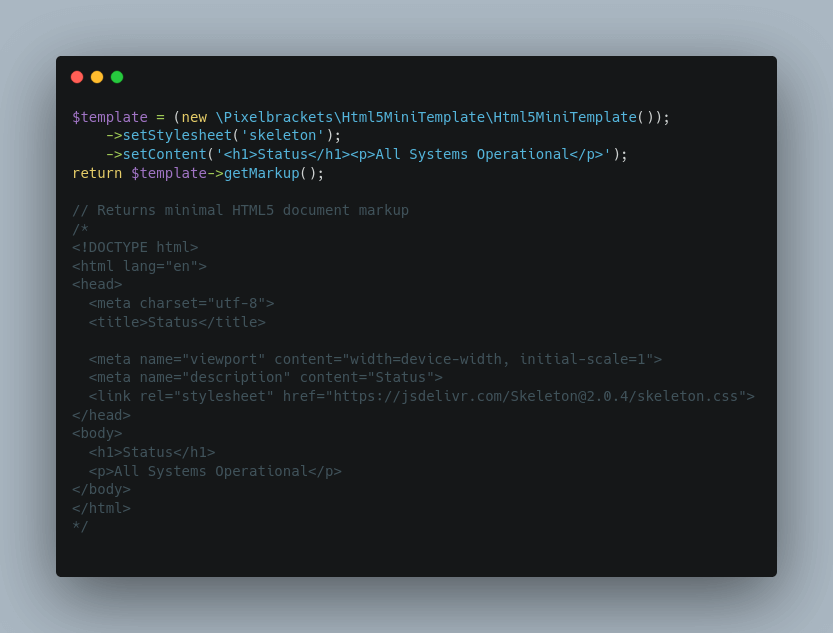
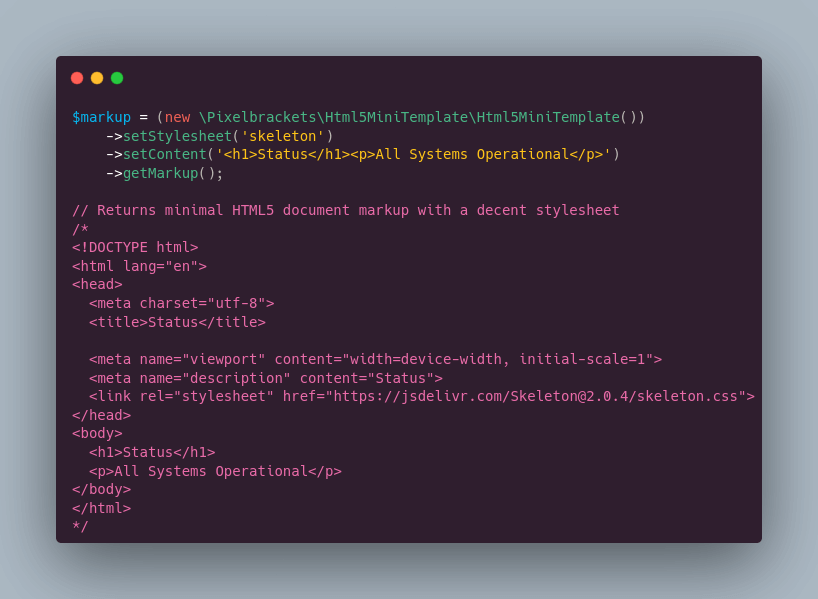
[BUGFIX] 🐛 Docs: Replace faulty example code
The screenshot uses non-working PHP code.
Replace and use a better readable theme as well.

diff --git a/README.md b/README.md
@@ -34,7 +34,7 @@ The package follows the KISS principle.
 This package is used on [html5example.com](https://html5example.com/).
 
 If you are in need of a boilerplate HTML document once only, then you may use a
-commandline tool like HTTPie and run
+commandline tool like cURL or HTTPie and run
 `http https://html5example.com > index.html` to save a template file.
 
 The webapp supports some [options](#options) of this package as well,
@@ -75,7 +75,7 @@ mirrored to GitLab)
    and save the document into a file
    ```php
    $template = new \Pixelbrackets\Html5MiniTemplate\Html5MiniTemplate();
-   $template->setStylesheet('skeleton');
+   $template->setStylesheet('barbone');
    $template->setContent('<h1>Index</h1><p>Nothing to see here</p>');
    file_put_contents('/var/www/example/index.html', $template->getMarkup());
    ```
@@ -102,10 +102,11 @@ mirrored to GitLab)
   [boilerplate](https://html5example.com/) example content is used instead
   - 💭 You work with Markdown content? Use the drop-in replacement package
     [pixelbrackets/markdown-mini-page](https://packagist.org/packages/pixelbrackets/markdown-mini-page/)
+    to convert Markdown into HTML straightaway
 - `setStylesheet()` (*string*) may be a URL to any existing stylesheet *or*
   one of following reserved keywords – each keyword creates a link to a CDN
   of the associated CSS framework
-  - `barebone` ([Barebone Stylesheet](https://github.com/pixelbrackets/barebone-stylesheet/))
+  - `barebone` ([Barebone Stylesheet](https://github.com/pixelbrackets/barebone-stylesheet/)) – *super lightweight*
   - `bootstrap` ([Bootstrap](https://github.com/twbs/bootstrap/))
   - `gfm` ([GitHub Flavored Markdown Stylesheet](https://github.com/pixelbrackets/gfm-stylesheet/))
   - `milligram` ([Milligram](https://github.com/milligram/milligram/))
